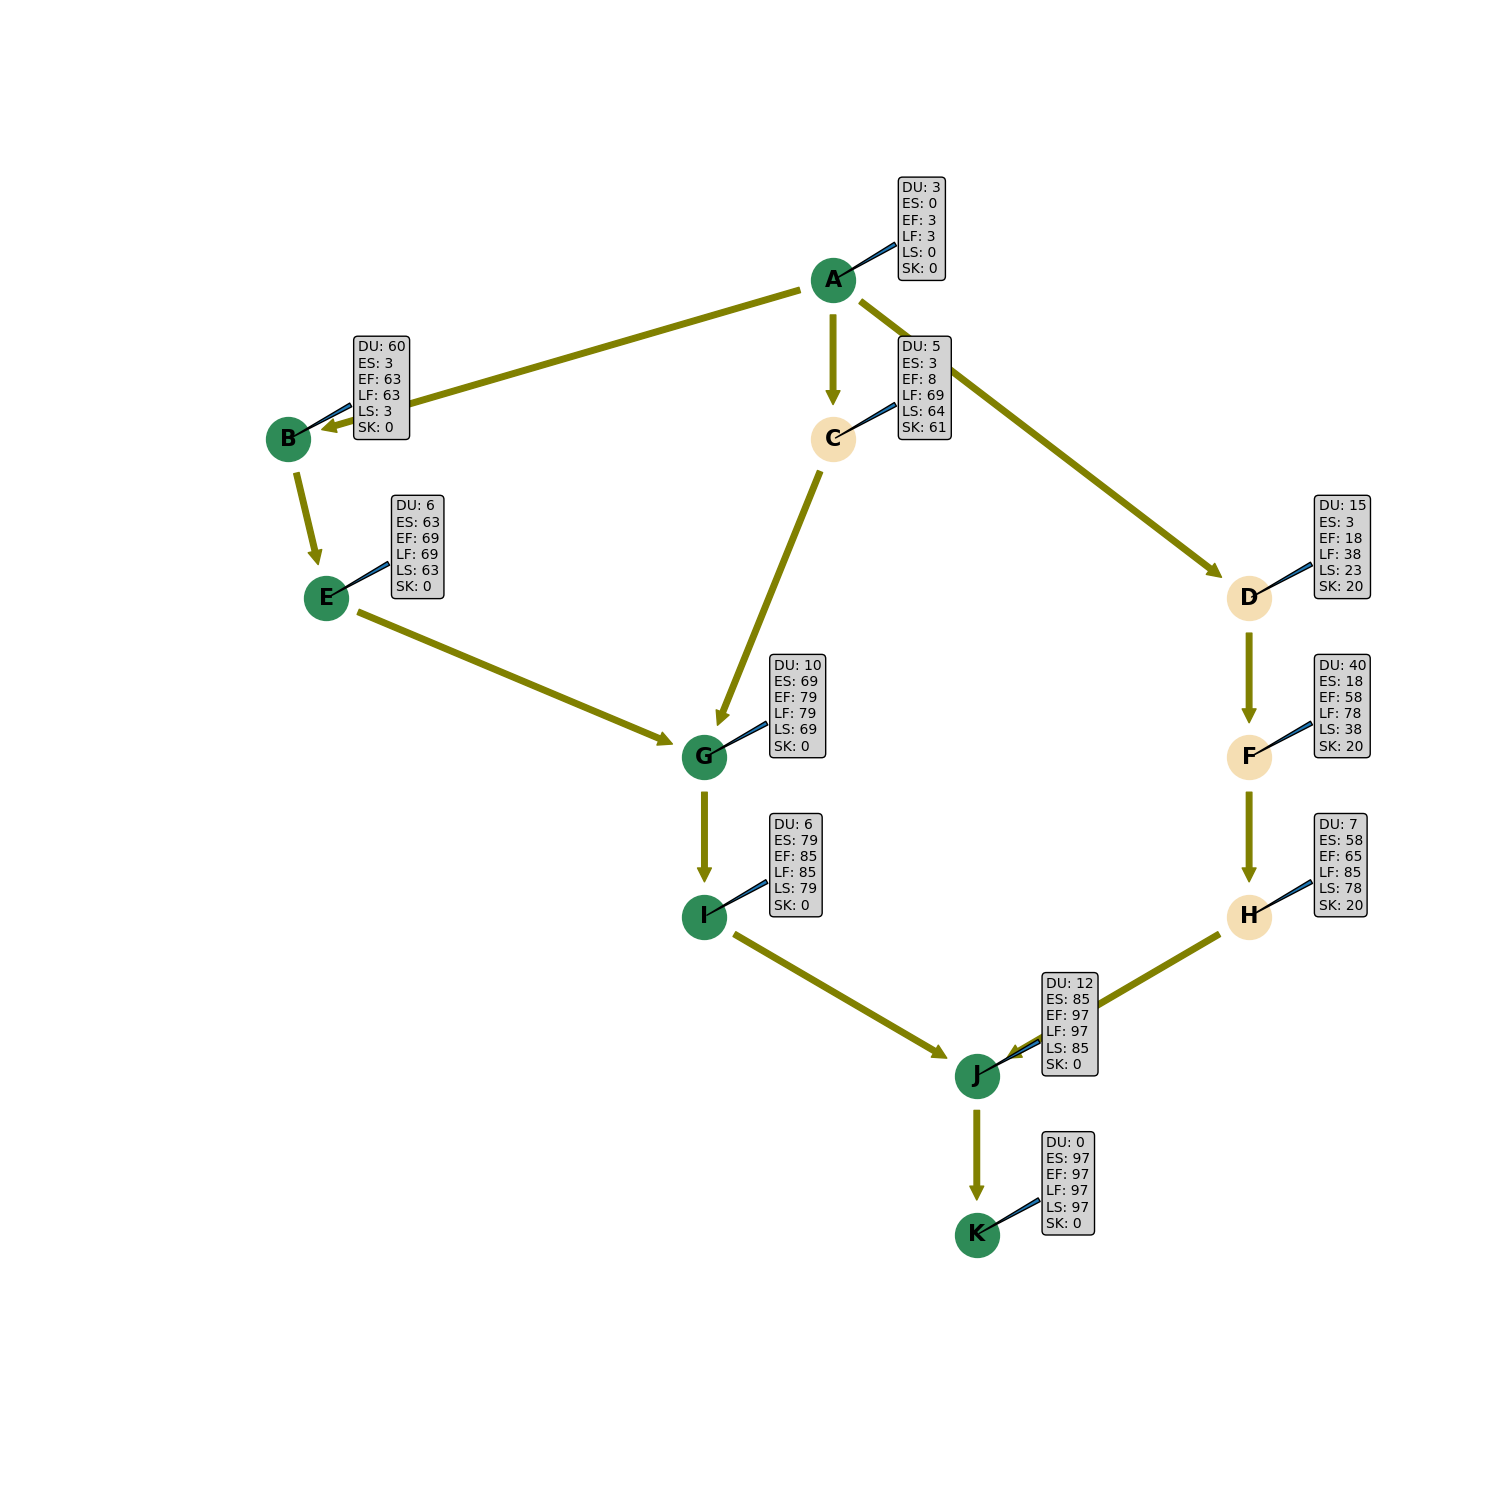
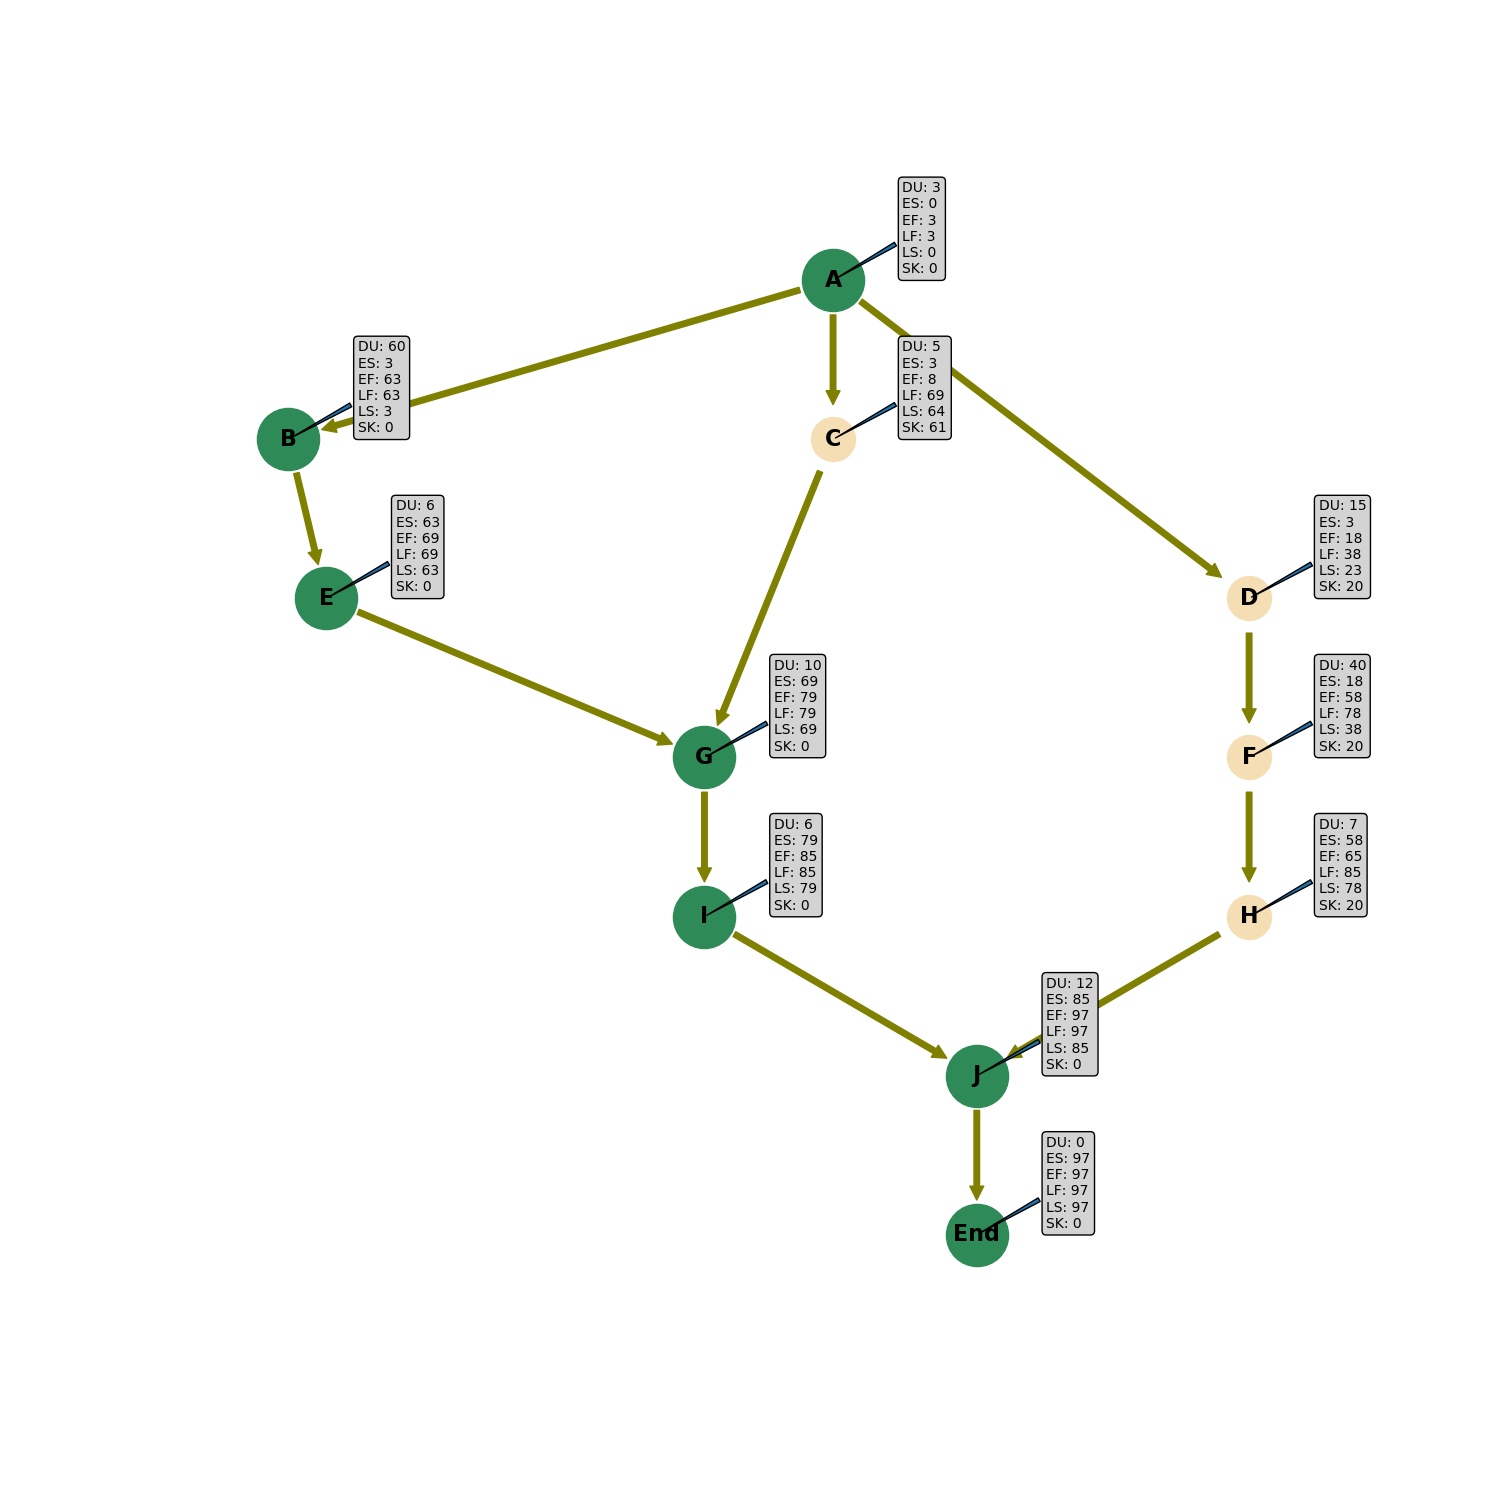
optimized end node

diff --git a/main.py b/main.py
@@ -56,7 +56,6 @@ for q in range(1, 7):
                     visited[i] = True
                 else:
                     level[i] = max(level[s]+1, level[i])
-    print(graph)
     BFS(start, graph)
 
     levels = [None] * len(path)
@@ -101,6 +100,7 @@ for q in range(1, 7):
                                                                     [k]) - 65]["LF"] - atts[ord(data.iloc[i, 1][k]) - 65]["DU"]
         atts[i]["SK"] = atts[i]["LF"] - atts[i]["EF"]
     # ----------------------------------------
+    atts[-1]["Name"] = "End"
     for j in range(len(graph)):
         print(atts[j])
     print()
@@ -109,7 +109,7 @@ for q in range(1, 7):
 
     for i in range(len(graph)):
         for j in graph[i]:
-            G2.add_edge(chr(i+65), chr(j+65))
+            G2.add_edge(atts[i]["Name"], atts[j]["Name"])
     temp = []
     for i in range(len(atts)):
         temp.append(atts[i]["Name"])
@@ -122,12 +122,12 @@ for q in range(1, 7):
                            width=1, arrowstyle='simple', arrowsize=20, min_source_margin=25, min_target_margin=25)
     crt = []
     notcrt = []
-    for i in atts:
+    for j, i in temp.items():
         if(i["LF"] == i["EF"]):
-            crt.append(i["Name"])
+            crt.append(j)
         else:
-            notcrt.append(i["Name"])
-    nx.draw_networkx_nodes(G2, pos, node_size=1000,
+            notcrt.append(j)
+    nx.draw_networkx_nodes(G2, pos, node_size=2000,
                            node_color='seagreen', ax=ax, nodelist=crt)
     nx.draw_networkx_nodes(G2, pos, node_size=1000,
                            node_color='wheat', ax=ax, nodelist=notcrt)
